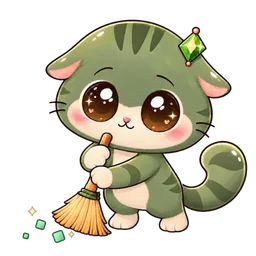
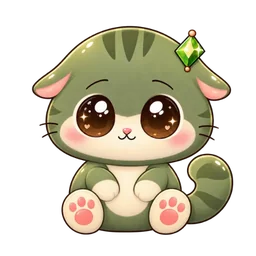
Kubi sits beside the storage ring, gets up to sweep when a clear starts, and finishes his round

diff --git a/lib/features/profile/presentation/sweeping_cat.dart b/lib/features/profile/presentation/sweeping_cat.dart
@@ -1,17 +1,25 @@
+import 'dart:async';
+
 import 'package:flutter/material.dart';
 
-/// Kubi with a broom, above the storage screen's clear button: sitting still
-/// while nothing is happening, sweeping while the cache is being cleared.
+/// Kubi, beside the storage screen's ring.
+///
+/// Sitting, still, while nothing is happening. When a clear starts he plays
+/// his whole routine — gets up, sweeps, sits back down — and goes round again
+/// for as long as the clear takes. When it ends he finishes the round he is in
+/// rather than vanishing mid-stroke: the routine ends on the very drawing the
+/// still is, so swapping back there is invisible. The clear itself does not
+/// wait for him.
 ///
 /// Still by default on purpose. An animation running for as long as the
 /// screen is open is a frame scheduled every 40 ms for nothing — the backdrop
 /// parks its own for the same reason — and a cat that sweeps all the time says
-/// nothing; one that starts when you press the button says the button worked.
+/// nothing; one that gets up when you press the button says it worked.
 ///
-/// The animation is the design preview's (`design-previews/kubi-cache-broom`)
+/// The routine is the design preview's (`design-previews/kubi-sit-stand-sweep`)
 /// at 256 px instead of 512: drawn at [size] it never needs more, and the
-/// original was 5.5 MB of APK.
-class SweepingCat extends StatelessWidget {
+/// original was 8.2 MB of APK; this is 2.7.
+class SweepingCat extends StatefulWidget {
   const SweepingCat({super.key, required this.sweeping, this.size = 120});
 
   final bool sweeping;
@@ -20,18 +28,87 @@ class SweepingCat extends StatelessWidget {
   static const String sitting = 'assets/illustrations/kubi-sit.webp';
   static const String sweepingAsset = 'assets/illustrations/kubi-sweep.webp';
 
+  /// One round of the routine: 190 frames at 25 fps.
+  static const Duration routine = Duration(milliseconds: 7600);
+
+  @override
+  State<SweepingCat> createState() => _SweepingCatState();
+}
+
+class _SweepingCatState extends State<SweepingCat> {
+  bool _playing = false;
+  DateTime? _startedAt;
+  Timer? _settle;
+
+  @override
+  void didUpdateWidget(SweepingCat old) {
+    super.didUpdateWidget(old);
+    if (widget.sweeping && !old.sweeping) {
+      _start();
+    } else if (!widget.sweeping && old.sweeping) {
+      _finishRound();
+    }
+  }
+
+  void _start() {
+    _settle?.cancel();
+    _settle = null;
+    if (_playing) return;
+    // From the first frame every time. An animated image left in the cache
+    // resumes wherever it was paused, which would start the next clear with
+    // him already mid-sweep.
+    unawaited(_routine(context).evict());
+    setState(() {
+      _playing = true;
+      _startedAt = DateTime.now();
+    });
+  }
+
+  /// Sit down at the end of the round in progress.
+  void _finishRound() {
+    final started = _startedAt;
+    if (!_playing || started == null) return;
+    final round = SweepingCat.routine.inMilliseconds;
+    final into = DateTime.now().difference(started).inMilliseconds % round;
+    _settle?.cancel();
+    _settle = Timer(Duration(milliseconds: round - into), () {
+      if (!mounted) return;
+      setState(() {
+        _playing = false;
+        _startedAt = null;
+      });
+    });
+  }
+
+  int _decodeWidth(BuildContext context) =>
+      (widget.size * MediaQuery.devicePixelRatioOf(context)).round();
+
+  // Decoded at the size drawn — an uncapped decode was a measured cost here
+  // before (see the perf-triage notes).
+  ImageProvider _routine(BuildContext context) => ResizeImage(
+        const AssetImage(SweepingCat.sweepingAsset),
+        width: _decodeWidth(context),
+      );
+
+  @override
+  void dispose() {
+    _settle?.cancel();
+    super.dispose();
+  }
+
   @override
   Widget build(BuildContext context) {
-    final animate = sweeping && !MediaQuery.disableAnimationsOf(context);
-    final dpr = MediaQuery.devicePixelRatioOf(context);
+    final animate = _playing && !MediaQuery.disableAnimationsOf(context);
     return ExcludeSemantics(
-      child: Image.asset(
-        animate ? sweepingAsset : sitting,
-        width: size,
-        height: size,
-        // Decoded at the size drawn — an uncapped decode was a measured cost
-        // here before (see the perf-triage notes).
-        cacheWidth: (size * dpr).round(),
+      child: Image(
+        image: animate
+            ? _routine(context)
+            : ResizeImage(
+                const AssetImage(SweepingCat.sitting),
+                width: _decodeWidth(context),
+              ),
+        width: widget.size,
+        height: widget.size,
         // No blank frame between the two images.
         gaplessPlayback: true,
       ),

diff --git a/lib/features/profile/presentation/storage_screen.dart b/lib/features/profile/presentation/storage_screen.dart
@@ -38,9 +38,6 @@ class _StorageScreenState extends State<StorageScreen> {
 
   bool _working = false;
 
-  /// The shortest a clear is shown for — see [SweepingCat].
-  static const Duration _minSweep = Duration(milliseconds: 2400);
-
   @override
   void initState() {
     super.initState();
@@ -83,14 +80,10 @@ class _StorageScreenState extends State<StorageScreen> {
     }
 
     setState(() => _working = true);
-    final started = DateTime.now();
+    // Kubi finishes his round on his own, so a clear that takes a tenth of a
+    // second is still seen being swept — see [SweepingCat].
     final freed = await clearStorage(_selected, roots);
     await _scan();
-    // A cache clears in a fraction of a second, and a cat that sweeps for a
-    // tenth of one was not seen sweeping at all: hold the busy state until it
-    // has done one stroke and back.
-    final left = _minSweep - DateTime.now().difference(started);
-    if (left > Duration.zero) await Future<void>.delayed(left);
     if (!mounted) return;
     setState(() => _working = false);
     showGlassToast(
@@ -128,7 +121,21 @@ class _StorageScreenState extends State<StorageScreen> {
             : ListView(
                 padding: const EdgeInsets.fromLTRB(16, 8, 16, 140),
                 children: [
-                  _Donut(report: report),
+                  // Kubi beside the ring rather than under the list: it is
+                  // the ring he is tidying. Scaled down as one on a narrow
+                  // phone instead of either of them being pushed off.
+                  FittedBox(
+                    fit: BoxFit.scaleDown,
+                    child: Row(
+                      mainAxisSize: MainAxisSize.min,
+                      crossAxisAlignment: CrossAxisAlignment.end,
+                      children: [
+                        _Donut(report: report),
+                        const SizedBox(width: 6),
+                        SweepingCat(sweeping: _working, size: 112),
+                      ],
+                    ),
+                  ),
                   const SizedBox(height: 18),
                   Text(
                     t.storageHeadline,
@@ -183,9 +190,7 @@ class _StorageScreenState extends State<StorageScreen> {
                       ],
                     ),
                   ),
-                  const SizedBox(height: 10),
-                  Center(child: SweepingCat(sweeping: _working)),
-                  const SizedBox(height: 6),
+                  const SizedBox(height: 14),
                   _ClearButton(
                     label: _selectedBytes == 0
                         ? t.storageClearNothing

diff --git a/test/sweeping_cat_test.dart b/test/sweeping_cat_test.dart
@@ -2,13 +2,13 @@ import 'package:cubechat/features/profile/presentation/sweeping_cat.dart';
 import 'package:flutter/material.dart';
 import 'package:flutter_test/flutter_test.dart';
 
-/// Kubi sits still on the storage screen and sweeps only while clearing.
+/// Kubi sits still on the storage screen, gets up and sweeps when a clear
+/// starts, and sits back down only at the end of his round.
 void main() {
   String shown(WidgetTester tester) {
     final image = tester.widget<Image>(find.byType(Image));
-    return (image.image as ResizeImage).imageProvider is AssetImage
-        ? ((image.image as ResizeImage).imageProvider as AssetImage).assetName
-        : '';
+    final resized = image.image as ResizeImage;
+    return (resized.imageProvider as AssetImage).assetName;
   }
 
   Future<void> pump(WidgetTester tester, bool sweeping,
@@ -21,14 +21,31 @@ void main() {
     );
   }
 
-  testWidgets('sits still until a clear starts, then sweeps', (tester) async {
+  testWidgets('sits still until a clear starts, then plays his routine',
+      (tester) async {
     await pump(tester, false);
     expect(shown(tester), SweepingCat.sitting);
     await pump(tester, true);
     expect(shown(tester), SweepingCat.sweepingAsset);
   });
 
-  testWidgets('with reduced motion it never sweeps', (tester) async {
+  testWidgets('a quick clear still gets a whole round, then he sits',
+      (tester) async {
+    await pump(tester, false);
+    await pump(tester, true);
+    await tester.pump(const Duration(milliseconds: 200));
+    // The clear is over in a fifth of a second...
+    await pump(tester, false);
+    expect(shown(tester), SweepingCat.sweepingAsset);
+    // ...and he finishes the round he started rather than stopping mid-stroke.
+    await tester.pump(const Duration(seconds: 5));
+    expect(shown(tester), SweepingCat.sweepingAsset);
+    await tester.pump(SweepingCat.routine);
+    expect(shown(tester), SweepingCat.sitting);
+  });
+
+  testWidgets('with reduced motion he never gets up', (tester) async {
+    await pump(tester, false, reduced: true);
     await pump(tester, true, reduced: true);
     expect(shown(tester), SweepingCat.sitting);
   });
